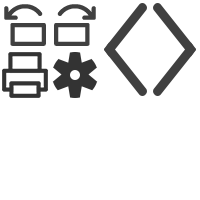
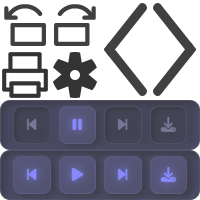
新增动图逐帧浏览

diff --git a/jarkViewer/src/jarkViewer.cpp b/jarkViewer/src/jarkViewer.cpp
@@ -46,6 +46,7 @@ struct CurImageParameter {
     vector<int64_t> zoomList;
     int zoomIndex = 0;
     bool isAnimation = false;
+    bool isAnimationPause = false;
     int width = 0;
     int height = 0;
     int rotation = 0; // 旋转： 0正常， 1逆90度， 2：180度， 3顺90度
@@ -62,6 +63,7 @@ struct CurImageParameter {
         slideCur = 0;
         slideTarget = 0;
         rotation = 0;
+        isAnimationPause = false;
 
         if (framesPtr) {
             isAnimation = framesPtr->imgList.size() > 1;
@@ -165,7 +167,7 @@ public:
 class ExtraUIRes
 {
 public:
-    cv::Mat imgData, leftArrow, rightArrow, leftRotate, rightRotate, printer, setting;
+    cv::Mat imgData, leftArrow, rightArrow, leftRotate, rightRotate, printer, setting, animationBarPlaying, animationBarPausing;
 
     ExtraUIRes() {
         rcFileInfo rc;
@@ -181,6 +183,9 @@ public:
 
         leftArrow = mainRes({ 100, 0, 50, 100 }).clone();
         rightArrow = mainRes({ 150, 0, 50, 100 }).clone();
+
+        animationBarPlaying = mainRes({ 0, 100, 200, 50 }).clone();
+        animationBarPausing = mainRes({ 0, 150, 200, 50 }).clone();
     }
     ~ExtraUIRes() {}
 };
@@ -316,6 +321,47 @@ public:
                 operateQueue.push({ ActionENUM::printImage });
             else if (cursorPos == CursorPos::rightDown)
                 operateQueue.push({ ActionENUM::setting });
+            else if (cursorPos == CursorPos::centerTop) {
+                // 按钮ID  0:上一帧  1:暂停/继续  2:下一帧  3:保存该帧
+                int buttonIdx = (abs(winWidth / 2 - x) > 100 ? -1 : (x + 100 - winWidth / 2) / 50);
+                if (curPar.isAnimation && buttonIdx >= 0) {
+                    if (curPar.isAnimationPause) {
+                        switch (buttonIdx)
+                        {
+                        case 0: {
+                            if (--curPar.curFrameIdx < 0)
+                                curPar.curFrameIdx = curPar.curFrameIdxMax;
+                            operateQueue.push({ ActionENUM::normalFresh });
+                        }break;
+                        case 1: {
+                            curPar.isAnimationPause = !curPar.isAnimationPause;
+                            operateQueue.push({ ActionENUM::normalFresh });
+                        }break;
+                        case 2: {
+                            if (++curPar.curFrameIdx > curPar.curFrameIdxMax)
+                                curPar.curFrameIdx = 0;
+                            operateQueue.push({ ActionENUM::normalFresh });
+                        }break;
+                        case 3: {
+                            const auto& [srcImg, delay] = curPar.framesPtr->imgList[curPar.curFrameIdx];
+                            std::thread saveImageThread([](cv::Mat image) {
+                                auto path = jarkUtils::saveImageDialog();
+                                if (path.length() > 2) {
+                                    cv::imwrite(path.c_str(), image);
+                                }
+                                }, srcImg);
+                            saveImageThread.detach();
+                        }break;
+                        }
+                    }
+                    else {
+                        if (buttonIdx == 1) {
+                            curPar.isAnimationPause = !curPar.isAnimationPause;
+                            operateQueue.push({ ActionENUM::normalFresh });
+                        }
+                    }
+                }
+            }
             return;
         }
 
@@ -429,6 +475,10 @@ public:
                     cursorPos = CursorPos::centerArea;
                 }
             }
+
+            if (y < 50 && abs(x - winWidth / 2) < 100) {
+                cursorPos = CursorPos::centerTop;
+            }
         }
 
         if (cursorPosLast != cursorPos) {
@@ -447,6 +497,13 @@ public:
             case CursorPos::leftEdge:
                 extraUIFlag = ShowExtraUI::leftArrow;
                 operateQueue.push({ ActionENUM::normalFresh });
+                break;
+
+            case CursorPos::centerTop:
+                if (curPar.isAnimation) {
+                    extraUIFlag = ShowExtraUI::animationBar;
+                    operateQueue.push({ ActionENUM::normalFresh });
+                }
                 break;
 
             case CursorPos::centerArea:
@@ -513,30 +570,33 @@ public:
         if (ctrlIsPressing) {
             switch (keyValue)
             {
-            case 'O': { // Ctrl + O
+            case 'O': { // Ctrl + O  打开图片
                 wstring filePath = jarkUtils::SelectFile(m_hWnd);
                 if (!filePath.empty()) {
                     initOpenFile(filePath);
                     operateQueue.push({ ActionENUM::normalFresh });
                 }
             }break;
-            case 'S': { // Ctrl + S
-                const auto& imgs = curPar.framesPtr->imgList;
-                wstring& filePath = imgFileList[curFileIdx];
-                if (imgs.size() > 1) {
-                    auto dotIdx = filePath.find_last_of(L".");
-                    if (dotIdx == string::npos)
-                        dotIdx = filePath.size();
-                    for (int i = 0; i < imgs.size(); i++) {
-                        cv::imwrite(jarkUtils::wstringToAnsi(std::format(L"{}_{:04}.png", filePath.substr(0, dotIdx), i + 1)), imgs[i].img);
-                    }
-                }
+
+            //case 'S': { // Ctrl + S  动图 批量保存每一帧
+            //    if (curPar.isAnimation) {
+            //        const auto& imgs = curPar.framesPtr->imgList;
+            //        wstring& filePath = imgFileList[curFileIdx];
+            //        auto dotIdx = filePath.find_last_of(L".");
+            //        if (dotIdx == string::npos)
+            //            dotIdx = filePath.size();
+            //        for (int i = 0; i < imgs.size(); i++) {
+            //            cv::imwrite(jarkUtils::wstringToAnsi(std::format(L"{}_{:04}.png", filePath.substr(0, dotIdx), i + 1)), imgs[i].img);
+            //        }
+            //    }
+            //}break;
+
+            case 'C': { // Ctrl + C  复制到剪贴板
+                const auto& [srcImg, delay] = curPar.framesPtr->imgList[curPar.curFrameIdx];
+                jarkUtils::copyImageToClipboard(srcImg);
             }break;
-            case 'C': {
-                const auto& imgs = curPar.framesPtr->imgList;
-                jarkUtils::copyImageToClipboard(imgs.front().img);
-            }break;
-            case 'P': {
+
+            case 'P': { // Ctrl + P 打印
                 operateQueue.push({ ActionENUM::printImage });
             }break;
             }
@@ -544,6 +604,32 @@ public:
         else {
             switch (keyValue)
             {
+
+            case 'J': { // 上一帧
+                if (curPar.isAnimation && curPar.isAnimationPause) {
+                    curPar.curFrameIdx--;
+                    if (curPar.curFrameIdx < 0)
+                        curPar.curFrameIdx = curPar.curFrameIdxMax;
+                    operateQueue.push({ ActionENUM::normalFresh });
+                }
+            }break;
+
+            case 'K': { // 动图 暂停/继续
+                if (curPar.isAnimation) {
+                    curPar.isAnimationPause = !curPar.isAnimationPause;
+                    operateQueue.push({ ActionENUM::normalFresh });
+                }
+            }break;
+
+            case 'L': { // 下一帧
+                if (curPar.isAnimation && curPar.isAnimationPause) {
+                    curPar.curFrameIdx++;
+                    if (curPar.curFrameIdx > curPar.curFrameIdxMax)
+                        curPar.curFrameIdx = 0;
+                    operateQueue.push({ ActionENUM::normalFresh });
+                }
+            }break;
+
             case VK_CONTROL: {
                 ctrlIsPressing = true;
             }break;
@@ -1239,6 +1325,11 @@ public:
             auto& img = extraUIRes.rightRotate;
             jarkUtils::overlayImg(canvas, img, canvasWidth - img.cols, (canvasHeight / 4 - img.rows) / 2);
         } break;
+
+        case ShowExtraUI::animationBar: {
+            auto& img = curPar.isAnimationPause ? extraUIRes.animationBarPausing : extraUIRes.animationBarPlaying;
+            jarkUtils::overlayImg(canvas, img, (canvasWidth - img.cols)/2, 0);
+        } break;
         }
     }
 
@@ -1249,13 +1340,13 @@ public:
         static auto lastTimestamp = std::chrono::steady_clock::now();
 
         auto operateAction = operateQueue.get();
-        if (operateAction.action == ActionENUM::none) {
-            if (curPar.zoomCur == curPar.zoomTarget &&
-                curPar.slideCur == curPar.slideTarget &&
-                !curPar.isAnimation) {
-                Sleep(1); // Windows机制限制，实际时长最小只能 15.6ms
-                return;
-            }
+        if (operateAction.action == ActionENUM::none &&
+            curPar.zoomCur == curPar.zoomTarget &&
+            curPar.slideCur == curPar.slideTarget &&
+            (!curPar.isAnimation || (curPar.isAnimation && curPar.isAnimationPause))) {
+
+            Sleep(1); // Windows机制限制，实际时长最小只能 15.6ms
+            return;
         }
 
         if (operateAction.action == ActionENUM::printImage) {
@@ -1474,13 +1565,24 @@ public:
         drawExifInfo(mainCanvas);
         drawExtraUI(mainCanvas);
 
-        wstring str = std::format(L" [{}/{}] {}% ",
-            curFileIdx + 1, imgFileList.size(),
-            curPar.zoomCur * 100ULL / curPar.ZOOM_BASE)
-            + imgFileList[curFileIdx];
-        if (curPar.rotation)
-            str += (curPar.rotation == 1 ? L"  逆时针旋转90°" : (curPar.rotation == 3 ? L"  顺时针旋转90°" : (L"  旋转180°")));
-        SetWindowTextW(m_hWnd, str.c_str());
+        if (curPar.isAnimation && curPar.isAnimationPause) {
+            wstring str = std::format(L"逐帧浏览 [{}/{}] {}% ",
+                curPar.curFrameIdx + 1, curPar.curFrameIdxMax + 1,
+                curPar.zoomCur * 100ULL / curPar.ZOOM_BASE)
+                + imgFileList[curFileIdx];
+            if (curPar.rotation)
+                str += (curPar.rotation == 1 ? L"  逆时针旋转90°" : (curPar.rotation == 3 ? L"  顺时针旋转90°" : (L"  旋转180°")));
+            SetWindowTextW(m_hWnd, str.c_str());
+        }
+        else {
+            wstring str = std::format(L" [{}/{}] {}% ",
+                curFileIdx + 1, imgFileList.size(),
+                curPar.zoomCur * 100ULL / curPar.ZOOM_BASE)
+                + imgFileList[curFileIdx];
+            if (curPar.rotation)
+                str += (curPar.rotation == 1 ? L"  逆时针旋转90°" : (curPar.rotation == 3 ? L"  顺时针旋转90°" : (L"  旋转180°")));
+            SetWindowTextW(m_hWnd, str.c_str());
+        }
 
         m_pD2DDeviceContext->CreateBitmap(
             bitmapSize,
@@ -1496,7 +1598,7 @@ public:
         m_pSwapChain->Present(0, 0);
 
 
-        if (curPar.isAnimation) {
+        if (curPar.isAnimation && curPar.isAnimationPause == false) {
             if (delayRemain <= 0)
                 delayRemain = curPar.curFrameDelay;
 

diff --git a/jarkViewer/include/jarkUtils.h b/jarkViewer/include/jarkUtils.h
@@ -219,15 +219,16 @@ struct GifData {
 };
 
 enum class ActionENUM:int64_t {
-    none = 0, newSize, slide, preImg, nextImg, zoomIn, zoomOut, toggleExif, toggleFullScreen, requestExit, normalFresh, rotateLeft, rotateRight, printImage, setting
+    none = 0, newSize, slide, preImg, nextImg, zoomIn, zoomOut, toggleExif, toggleFullScreen, requestExit, normalFresh,
+    rotateLeft, rotateRight, printImage, setting,
 };
 
 enum class CursorPos :int {
-    leftUp = -3, leftDown = -2, leftEdge = -1, centerArea = 0, rightEdge = 1, rightDown = 2, rightUp = 3,
+    centerArea = 0, leftUp, leftDown, leftEdge, rightEdge, rightDown, rightUp, centerTop,
 };
 
 enum class ShowExtraUI :int {
-    rotateLeftButton = -3, printer = -2, leftArrow = -1, none = 0, rightArrow = 1, setting = 2, rotateRightButton = 3,
+    none = 0, rotateLeftButton, printer, leftArrow, rightArrow, setting, rotateRightButton, animationBar
 };
 
 struct Action {

diff --git a/README.md b/README.md
@@ -16,6 +16,7 @@
 1. **🖥 切换全屏**：双击窗口 / `F11` 键
 1. **📋 复制图像**：`Ctrl + C`
 1. **🖨 打印图像**：窗口左下角 `单击` / `Ctrl + P`
+1. **🎞 逐帧浏览**：窗口顶部控制栏 / `J:上帧` `K:暂停/继续` `L:下帧`
 1. **❌ 快捷退出**：右键单击 / `ESC` 键
 
 ---
@@ -53,6 +54,11 @@
 ---
 
 ## 🛠 对于开发者
+
+下载仓库时，只需下载最新提交，历史提交存在较多冗余文件。
+```sh
+git clone git@github.com:jark006/jarkViewer.git --depth=1
+```
 
 本软件采用全库静态链接，开发者需要在编译前解压所有第三方静态库文件
 
